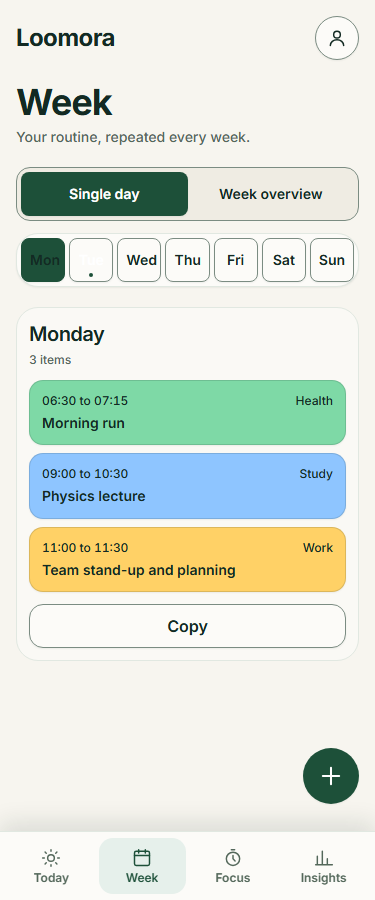
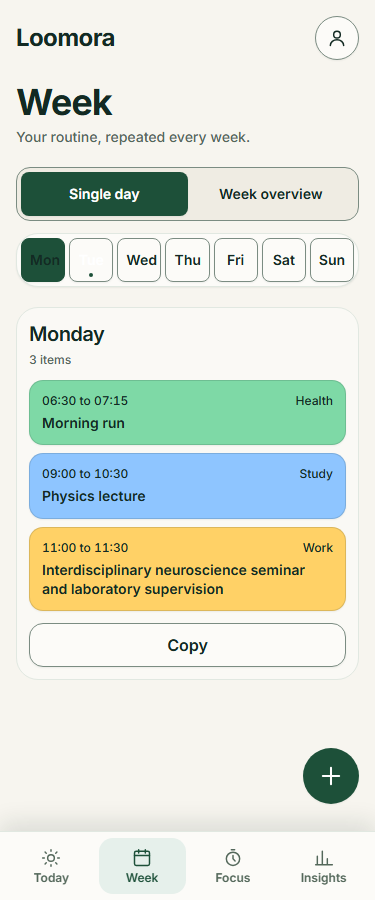
fix(week): scroll seven readable columns inside their own box (UX-008)
- From 768 px the Week columns keep an 8rem minimum and scroll inside an
  overflow-x container instead of squeezing to ~61 px beside the sidebar;
  all seven still fit without scrolling at 1280 and 1440 px.
- While it overflows, the container is a named, focusable region, and
  focused cards and Copy buttons scroll fully into view.
- One day-panel style at every width; drop the 768 px short-name variant.
- Add a 768 px Playwright regression test with long titles, keyboard
  reachability and axe; refresh Week screenshots and docs.

Changed region(s): [[0.0587, 0.6222, 0.9387, 0.7467]]

diff --git a/e2e/week.spec.ts b/e2e/week.spec.ts
@@ -1,3 +1,4 @@
+import AxeBuilder from '@axe-core/playwright'
 import { expect, test, type Page } from '@playwright/test'
 
 // The day strip replaces the 7 columns below 768 px (tailwind md).
@@ -91,4 +92,68 @@ test('no horizontal scroll and the floating + clears the bottom nav', async ({
     if (!nav) throw new Error('bottom nav not rendered')
     expect(fab.y + fab.height).toBeLessThanOrEqual(nav.y)
   }
+})
+
+// UX-008: at 768 px the sidebar leaves too little room for 7 columns, so the columns keep a
+// readable width and scroll inside their own box; at 1440 px all 7 fit without scrolling.
+test('768 px week columns scroll in their own box with long titles; 1440 px fits all seven', async ({
+  page,
+}) => {
+  const longTitle = 'Interdisciplinary neuroscience seminar and laboratory supervision'
+  await page.setViewportSize({ width: 768, height: 1024 })
+  await page.goto('/week')
+  await page.getByRole('button', { name: 'Add to my schedule' }).click()
+  const sheet = page.getByRole('dialog', { name: 'Add to my schedule' })
+  await sheet.getByLabel('Title').fill(longTitle)
+  for (const name of [...WEEKDAYS, 'Saturday', 'Sunday']) {
+    await sheet.getByRole('button', { name, exact: true }).click()
+  }
+  await sheet.getByRole('button', { name: 'Add', exact: true }).click()
+  await expect(sheet).toBeHidden()
+
+  const pageOverflow = () =>
+    page.evaluate(() => document.documentElement.scrollWidth - document.documentElement.clientWidth)
+  const columns = page.getByRole('region', { name: /^Week schedule/ })
+  await expect(columns).toBeVisible()
+  expect(await pageOverflow()).toBeLessThanOrEqual(0)
+  expect(await columns.evaluate((el) => el.scrollWidth > el.clientWidth)).toBe(true)
+  const violations = (
+    await new AxeBuilder({ page })
+      .withTags(['wcag2a', 'wcag2aa', 'wcag21a', 'wcag21aa', 'wcag22aa'])
+      .analyze()
+  ).violations
+  expect(violations.map((v) => v.id)).toEqual([])
+
+  for (const name of [...WEEKDAYS, 'Saturday', 'Sunday']) {
+    const day = page.getByRole('region', { name, exact: true })
+    expect((await day.boundingBox())?.width ?? 0).toBeGreaterThanOrEqual(128)
+    const title = day.getByText(longTitle)
+    expect(await title.evaluate((el) => el.scrollWidth <= el.clientWidth)).toBe(true)
+  }
+
+  // Keyboard: the scroller is focusable, and tabbing to Sunday's Copy brings it into view.
+  await columns.focus()
+  await expect(columns).toBeFocused()
+  const sundayCopy = page.getByRole('button', { name: 'Copy Sunday to…' })
+  // Saturday's Copy, then Sunday's card, then Sunday's Copy.
+  await page.getByRole('button', { name: 'Copy Saturday to…' }).focus()
+  await page.keyboard.press('Tab')
+  await expect(
+    page.getByRole('region', { name: 'Sunday' }).getByRole('button', { name: /^Edit / }),
+  ).toBeFocused()
+  await page.keyboard.press('Tab')
+  await expect(sundayCopy).toBeFocused()
+  await expect(sundayCopy).toBeInViewport({ ratio: 1 })
+  const [box, frame] = await Promise.all([sundayCopy.boundingBox(), columns.boundingBox()])
+  if (!box || !frame) throw new Error('Week columns not rendered')
+  expect(box.x).toBeGreaterThanOrEqual(frame.x)
+  expect(box.x + box.width).toBeLessThanOrEqual(frame.x + frame.width)
+  await page.keyboard.press('Enter')
+  await expect(page.getByRole('dialog', { name: 'Copy Sunday to…' })).toBeVisible()
+  await page.keyboard.press('Escape')
+  expect(await pageOverflow()).toBeLessThanOrEqual(0)
+
+  await page.setViewportSize({ width: 1440, height: 900 })
+  await expect(page.getByRole('region', { name: /^Week schedule/ })).toHaveCount(0)
+  expect(await pageOverflow()).toBeLessThanOrEqual(0)
 })

diff --git a/src/features/schedule/week/DayColumn.tsx b/src/features/schedule/week/DayColumn.tsx
@@ -31,22 +31,14 @@ export function DayColumn({
       aria-label={name}
       aria-current={isToday ? 'date' : undefined}
       className={cn(
-        // The 768 px columns are too narrow for panel chrome; panels return at 1024 px.
-        'flex min-w-0 flex-col gap-3 rounded-lg border-hairline p-3 md:border-transparent md:bg-transparent md:p-0 lg:p-3',
-        isToday
-          ? 'border-primary/25 bg-primary-soft/60 lg:border-primary/25 lg:bg-primary-soft/60'
-          : 'border-border-subtle bg-paper/60 lg:border-border-subtle lg:bg-paper/60',
+        'flex min-w-0 flex-col gap-3 rounded-lg border-hairline p-3 md:p-2.5',
+        isToday ? 'border-primary/25 bg-primary-soft/60' : 'border-border-subtle bg-paper/60',
         className,
       )}
     >
-      <DayHeader
-        name={name}
-        short={t(`weekdays.short.${day}`)}
-        count={items.length}
-        isToday={isToday}
-      />
+      <DayHeader name={name} count={items.length} isToday={isToday} />
       {items.length === 0 ? (
-        <p className="rounded-md border-hairline border-dashed border-border-control/40 px-3 py-4 text-center text-sm text-muted md:px-1">
+        <p className="rounded-md border-hairline border-dashed border-border-control/40 px-3 py-4 text-center text-sm text-muted md:px-2">
           {t('week.nothingPlanned')}
         </p>
       ) : (
@@ -62,7 +54,7 @@ export function DayColumn({
         <Button
           variant="secondary"
           fullWidth
-          className="md:px-2 lg:px-5"
+          className="md:px-3"
           aria-label={t('copyDay.open', { day: name })}
           onClick={() => onCopy(day)}
         >
@@ -75,19 +67,16 @@ export function DayColumn({
 
 interface DayHeaderProps {
   name: string
-  short: string
   count: number
   isToday: boolean
 }
 
-// Full weekday names on phone and wide screens; short names in the narrow 768 px columns.
-function DayHeader({ name, short, count, isToday }: DayHeaderProps) {
+function DayHeader({ name, count, isToday }: DayHeaderProps) {
   const { t } = useTranslation()
   return (
     <div className="flex flex-col gap-1">
-      <h2 className="min-w-0 truncate text-xl font-semibold tracking-tight text-ink md:text-base lg:text-lg">
-        <span className="md:hidden lg:inline">{name}</span>
-        <span className="hidden md:inline lg:hidden">{short}</span>
+      <h2 className="min-w-0 truncate text-xl font-semibold tracking-tight text-ink md:text-lg">
+        {name}
       </h2>
       <div className="flex min-w-0 flex-wrap items-center gap-x-2 gap-y-1">
         <p className="text-xs font-medium leading-4 tabular-nums text-muted">
@@ -123,9 +112,9 @@ function ItemCard({ item, formatTime, onOpen }: ItemCardProps) {
       <Card
         tone={item.category}
         compact
-        className="flex min-h-touch flex-col-reverse gap-1 transition-shadow duration-fast ease-elemental group-hover:shadow-soft-md md:p-1.5 lg:p-3"
+        className="flex min-h-touch flex-col-reverse gap-1 transition-shadow duration-fast ease-elemental group-hover:shadow-soft-md md:p-2.5"
       >
-        <span className="block hyphens-auto break-words text-sm font-semibold leading-snug md:text-xs lg:text-sm">
+        <span className="block hyphens-auto break-words text-sm font-semibold leading-snug">
           {item.title}
         </span>{' '}
         <span className="flex flex-wrap items-center justify-between gap-x-2 text-xs font-medium text-ink">

diff --git a/src/features/schedule/week/WeekPage.tsx b/src/features/schedule/week/WeekPage.tsx
@@ -14,6 +14,7 @@ import { useScheduleItems } from '../useSchedule'
 import { useUndoableDelete } from '../useUndoableDelete'
 import { CopyDaySheet } from './CopyDaySheet'
 import { DayColumn } from './DayColumn'
+import { useHorizontalOverflow } from './useHorizontalOverflow'
 import { itemsOnWeekday, todayWeekday } from './weekPlan'
 
 type WeekView = 'day' | 'week'
@@ -38,6 +39,8 @@ function WeekSchedule() {
   const overview = view === 'week'
   const [target, setTarget] = useState<ScheduleTarget | null>(null)
   const [copyFrom, setCopyFrom] = useState<Weekday | null>(null)
+  const [columns, setColumns] = useState<HTMLDivElement | null>(null)
+  const scrollable = useHorizontalOverflow(columns)
 
   const list = (items.data ?? []).filter((item) => !del.isDeleting(item.id))
   const openAdd = () => setTarget({ type: 'create' })
@@ -99,19 +102,36 @@ function WeekSchedule() {
           </div>
 
           {/* pb-20: room to scroll the last item clear of the floating + */}
-          <div className="flex flex-col gap-4 pb-20 md:grid md:grid-cols-7 md:items-start md:gap-1.5 lg:gap-3">
-            {weekdays.map((day) => (
-              <DayColumn
-                key={day}
-                day={day}
-                items={itemsOnWeekday(list, day)}
-                formatTime={formatTime}
-                isToday={day === today}
-                className={overview || day === selected ? undefined : 'hidden md:flex'}
-                onOpenItem={openItem}
-                onCopy={setCopyFrom}
-              />
-            ))}
+          <div className="pb-20">
+            {/* 768 px and up: 7 readable columns that scroll inside this box when the screen is narrower. */}
+            <div
+              ref={setColumns}
+              // Chromium leaves a partly visible control cut off at the scroller edge on Tab.
+              onFocus={(event) => {
+                if (scrollable && event.target !== event.currentTarget) {
+                  event.target.scrollIntoView({ block: 'nearest', inline: 'nearest' })
+                }
+              }}
+              {...(scrollable && {
+                role: 'region',
+                'aria-label': t('week.columns'),
+                tabIndex: 0,
+              })}
+              className="flex flex-col gap-4 md:-mx-2 md:grid md:grid-cols-[repeat(7,minmax(8rem,1fr))] md:items-start md:gap-2 md:overflow-x-auto md:overscroll-x-contain md:scroll-px-2 md:px-2 md:pb-2 lg:gap-3"
+            >
+              {weekdays.map((day) => (
+                <DayColumn
+                  key={day}
+                  day={day}
+                  items={itemsOnWeekday(list, day)}
+                  formatTime={formatTime}
+                  isToday={day === today}
+                  className={overview || day === selected ? undefined : 'hidden md:flex'}
+                  onOpenItem={openItem}
+                  onCopy={setCopyFrom}
+                />
+              ))}
+            </div>
           </div>
           <FloatingAddButton onClick={openAdd} label={t('week.addItem')} />
         </>

diff --git a/src/features/schedule/week/useHorizontalOverflow.ts b/src/features/schedule/week/useHorizontalOverflow.ts
@@ -1,0 +1,16 @@
+import { useEffect, useState } from 'react'
+
+/** Whether the element is wider than its box, so keyboard users need a focusable scroller. */
+export function useHorizontalOverflow(element: HTMLElement | null): boolean {
+  const [overflowing, setOverflowing] = useState(false)
+  useEffect(() => {
+    if (!element || typeof ResizeObserver === 'undefined') return
+    const measure = () => setOverflowing(element.scrollWidth > element.clientWidth)
+    const observer = new ResizeObserver(measure)
+    observer.observe(element)
+    for (const child of element.children) observer.observe(child)
+    measure()
+    return () => observer.disconnect()
+  }, [element])
+  return overflowing
+}

diff --git a/docs/PROGRESS.md b/docs/PROGRESS.md
@@ -948,5 +948,14 @@ The backend queue at `c9a7acf0e03a0a3ee5f60cc38198634fd0f58e3d` ends at B-042. B
   - Playwright `phone-375`: **80/80 passed**. The first run caught an axe `label-content-name-mismatch` on the new category text. It was fixed by adding the category to the card's accessible name and keeping whitespace between text spans.
   - Local sweep against `vite preview` with 5 seeded items across all six categories and reduced motion: **0 px overflow** and 0 page errors at `320, 375, 390, 768, 1024, 1440 px` (single-day and overview on phone widths). At 375 px with 200% root text, overflow was **0 px** in both views. Tab reaches the cards with a visible `3 px` outline, Enter opens `Edit schedule item`, and the smallest visible `main` button is **44 px**.
 - **Notes for the planner:**
-  - At 768 px the UX-005 sidebar leaves about 61 px per Week column, so a single long word (for example "Morning") can still break mid-word. Collapsing the sidebar at `md` or switching to 7 columns only from 1024 px would change UX-005 or the documented layout, so neither was done here.
+  - At 768 px the UX-005 sidebar left about 61 px per Week column. This was resolved by the planner fix below.
   - The category fills are still the six documented `DEC-002` hexes in `src/styles/tokens.ts` (the pastel values in `DEC-003` remain blocked on the reference assets, per `UX-003`). They were preserved as-is. Existing `docs/screenshots/week-1280.png` predates this task and was left untouched.
+
+#### UX-008 planner fix: readable 768 px Week columns (PR #61)
+
+- **Changed:** From 768 px the seven columns use `grid-cols-[repeat(7,minmax(8rem,1fr))]` inside their own `overflow-x-auto` container. Page width and the UX-005 sidebar are unchanged, and the container has `overscroll-x-contain`. `useHorizontalOverflow` (a `ResizeObserver` on the container and its columns) makes the container a focusable `role="region"` named `Week schedule, scroll sideways for more days` only while it actually overflows. While it scrolls, focusing a card or Copy button inside it calls `scrollIntoView({ block: 'nearest', inline: 'nearest' })`. Chromium otherwise leaves a partly visible control cut off at the scroller edge on Tab. Scroll snapping was tried and removed because it pulled focused Sunday controls back out of view. The day panels now use one style at every width (full weekday names, `md:p-2.5` panels and cards). The 768 px short-name, no-chrome variant is gone. `pb-20` moved outside the scroller so its scrollbar stays clear of the floating +.
+- **Verified:**
+  - New Playwright regression test `e2e/week.spec.ts` (768 px, a long title on all seven days): 0 px page overflow; the scroller overflows; every column is at least 128 px; no title clips; axe (WCAG 2.0–2.2 A/AA) passes on the scrolling state. Real Tab presses go from Saturday's Copy to Sunday's card to Sunday's Copy, which ends fully inside the scroller and in the viewport, and Enter opens `Copy Sunday to…`. At 1440 px the scroller region is absent and page overflow is 0 px.
+  - Local sweep against `vite preview` (5 items, one with a 65-character title): 0 px page overflow and 0 page errors at `320, 375, 390, 768, 1024, 1280, 1440 px`. The scroller is active at 768 and 1024 px (column minimum 128 px; Tab reaches Sunday's Copy fully in view) and inactive at 1280 px (131 px columns) and 1440 px (147 px columns). At 375 px with 200% text: 0 px overflow in single-day and overview modes, with a visible 3 px focus outline. No visible `main` button is under 44 px.
+  - Screenshots refreshed: `week-375.png`, `week-1440.png`, and new `week-768.png` (scroll affordance: the next column peeks in at the edge). `week-1280.png` was preserved unchanged.
+  - A single 17-letter word ("Interdisciplinary") still wraps inside a 128 px column. Ordinary words no longer break.

diff --git a/docs/TASKS.md b/docs/TASKS.md
@@ -748,4 +748,5 @@ Source: `docs/research/daycraft-gap-analysis.md` and `docs/research/daycraft-tas
   - [x] Week header, day strip, overview toggle, day panels, and schedule cards follow `DEC-003` with zero behavior or data changes.
   - [x] Unit tests cover loading, error + retry, empty, keyboard open/copy, today marker, touch targets, `tabular-nums` times and category text; existing Week, Copy day, edit and delete tests still pass.
   - [x] Clean `lint`, `typecheck`, `knip`, `prettier --check`, full Vitest, `build`, Playwright `phone-375`, `npm audit --omit=dev`, Redocly OpenAPI lint, and `git diff --check`; 320–1440 px and 200% text at 375 px show `0 px` overflow.
-- **Files:** `src/features/schedule/DayToggle.tsx`, `src/features/schedule/week/WeekPage.tsx`, `src/features/schedule/week/DayColumn.tsx`, `src/features/schedule/week/WeekPage.test.tsx`, `src/i18n/en.json`, `vercel.json`, `docs/screenshots/week-375.png`, `docs/screenshots/week-1440.png`, `docs/TASKS.md`, `docs/PROGRESS.md`
+  - [x] Planner fix (PR #61): from 768 px the seven columns keep a `8rem` minimum and scroll inside their own focusable `Week schedule` region when the screen is narrower (768 and 1024 px); all seven fit without scrolling at 1280 and 1440 px; sidebar unchanged; regression test at 768 px with long titles.
+- **Files:** `src/features/schedule/DayToggle.tsx`, `src/features/schedule/week/WeekPage.tsx`, `src/features/schedule/week/DayColumn.tsx`, `src/features/schedule/week/useHorizontalOverflow.ts`, `src/features/schedule/week/WeekPage.test.tsx`, `e2e/week.spec.ts`, `src/i18n/en.json`, `vercel.json`, `docs/screenshots/week-375.png`, `docs/screenshots/week-768.png`, `docs/screenshots/week-1440.png`, `docs/TASKS.md`, `docs/PROGRESS.md`
